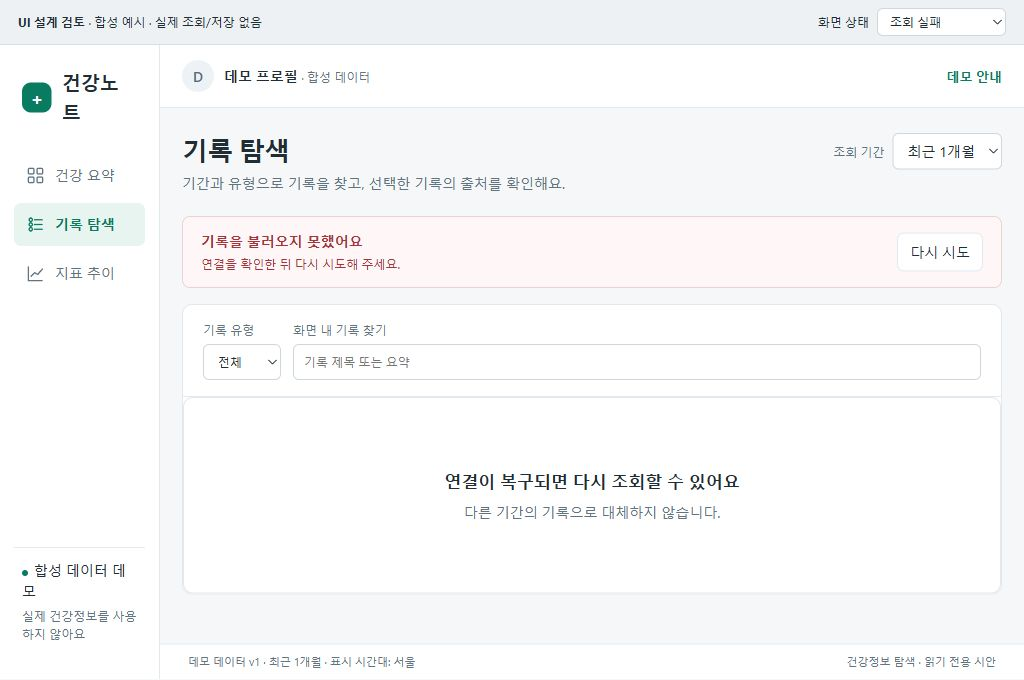
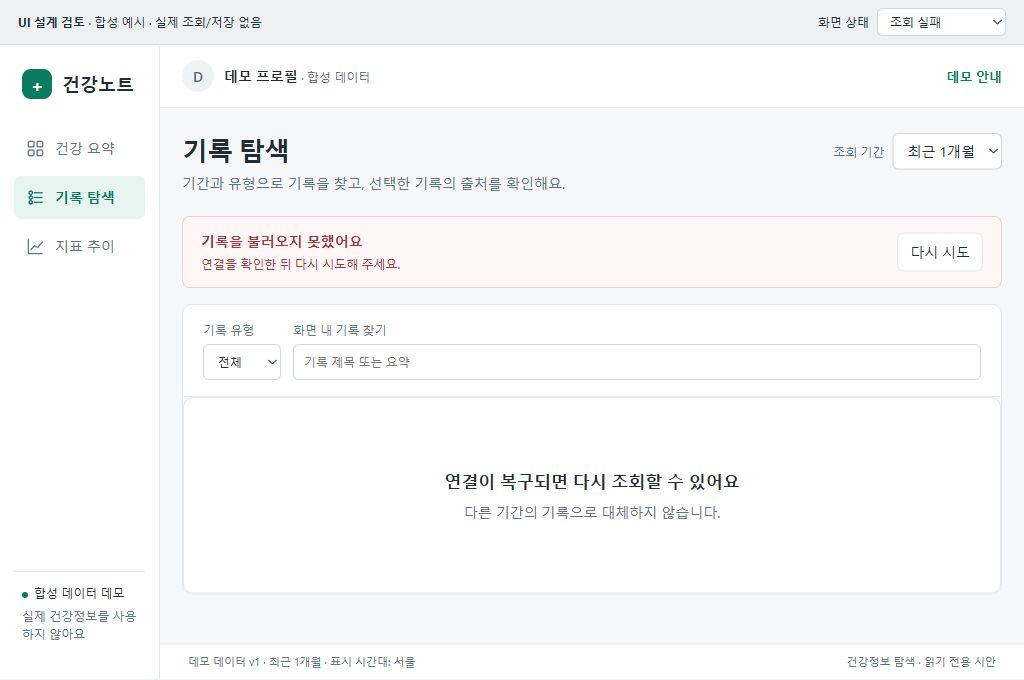
fix(HC-103): refine narrow shell and stress long record titles

diff --git a/design/prototypes/health-explorer.html b/design/prototypes/health-explorer.html
@@ -17,10 +17,10 @@ h1,h2,h3,p{margin:0}h1{font-size:26px;letter-spacing:-.8px;line-height:1.3}h2{fo
 .prototype label{display:flex;align-items:center;gap:8px}.prototype select{font-size:12px;min-height:28px;padding:3px 8px}
 .app{display:grid;grid-template-columns:184px minmax(0,1fr);min-height:calc(100vh - 46px)}
 .sidebar{display:flex;flex-direction:column;background:white;border-right:1px solid var(--line);padding:24px 14px;gap:28px}
-.brand{display:flex;align-items:center;gap:10px;padding:0 8px;font-size:19px;font-weight:700}.mark{width:30px;height:30px;display:grid;place-items:center;background:var(--green);border-radius:9px;color:white;font-size:18px}
+.brand{display:flex;align-items:center;gap:10px;padding:0 8px;font-size:19px;font-weight:700}.mark{flex:none;width:30px;height:30px;display:grid;place-items:center;background:var(--green);border-radius:9px;color:white;font-size:18px}
 nav{display:flex;flex-direction:column;gap:6px}nav button{display:flex;align-items:center;gap:10px;border:0;background:none;text-align:left;padding:11px 12px;width:100%;color:var(--muted);border-radius:7px}
 nav button[aria-current="page"]{color:var(--green);background:var(--green-soft);font-weight:600}nav svg{width:19px;height:19px;flex:none}
-.side-bottom{margin-top:auto;padding:12px 8px;border-top:1px solid var(--line);display:grid;gap:5px}.dot{display:inline-block;width:6px;height:6px;background:var(--green);border-radius:50%;margin-right:6px}
+.side-bottom{font-size:12px;margin-top:auto;padding:12px 8px;border-top:1px solid var(--line);display:grid;gap:5px}.dot{display:inline-block;width:6px;height:6px;background:var(--green);border-radius:50%;margin-right:6px}
 .workspace{min-width:0;display:flex;flex-direction:column}.topbar{background:white;border-bottom:1px solid var(--line);padding:15px 28px;display:flex;align-items:center;justify-content:space-between;gap:16px}
 .profile{display:flex;align-items:center;gap:10px}.avatar{display:grid;place-items:center;width:32px;height:32px;background:#edf2f6;border-radius:50%;color:#566978;font-weight:600}
 main{padding:25px 28px 32px;max-width:1500px;width:100%;margin:0 auto}.heading{display:flex;justify-content:space-between;align-items:center;gap:16px;margin-bottom:22px}
@@ -53,7 +53,7 @@ main{padding:25px 28px 32px;max-width:1500px;width:100%;margin:0 auto}.heading{d
 .data-table button{border:0;background:none;padding:0;color:var(--green)}.data-table tr.selected{background:var(--green-soft)}.trend-layout{display:grid;grid-template-columns:minmax(0,1fr) minmax(240px,.43fr);gap:18px}.insight{padding:20px}.insight p{font-size:13px;color:var(--muted);margin-top:12px}.gap-legend{display:inline-block;border-top:2px dashed var(--muted);width:20px;margin-right:6px;vertical-align:middle}
 .footer{margin-top:auto;padding:9px 28px;background:white;border-top:1px solid var(--line);font-size:11px;color:var(--muted);display:flex;justify-content:space-between;gap:12px}
 dialog{border:1px solid var(--line);border-radius:12px;padding:26px;max-width:440px;width:calc(100% - 40px);box-shadow:0 12px 60px #1c303b25}dialog::backdrop{background:#1c303b55}dialog h2{margin-bottom:12px}dialog p{color:var(--muted);margin-bottom:18px}dialog footer{text-align:right}
-@media(max-width:1120px){.app{grid-template-columns:160px minmax(0,1fr)}.topbar,main{padding-left:22px;padding-right:22px}.columns{grid-template-columns:minmax(0,1.35fr) minmax(245px,1fr)}.timeline-layout{grid-template-columns:minmax(0,1fr)}.detail{margin-top:0}.trend-layout{grid-template-columns:minmax(0,1fr)}.stat{padding:16px}.stat-value{font-size:27px}.heading{align-items:flex-start}}
+@media(max-width:1120px){.brand{font-size:18px;white-space:nowrap}.app{grid-template-columns:160px minmax(0,1fr)}.topbar,main{padding-left:22px;padding-right:22px}.columns{grid-template-columns:minmax(0,1.35fr) minmax(245px,1fr)}.timeline-layout{grid-template-columns:minmax(0,1fr)}.detail{margin-top:0}.trend-layout{grid-template-columns:minmax(0,1fr)}.stat{padding:16px}.stat-value{font-size:27px}.heading{align-items:flex-start}}
 @media(max-width:760px){.app{grid-template-columns:1fr}.sidebar{padding:14px;gap:14px}.sidebar nav{flex-direction:row}.sidebar nav button{justify-content:center}.side-bottom{display:none}.topbar{flex-wrap:wrap}.heading{flex-direction:column}.columns{grid-template-columns:1fr}.stats{grid-template-columns:1fr}.brand{font-size:18px}main{padding:20px 16px}.record{grid-template-columns:62px 30px minmax(0,1fr)}.event-row{grid-template-columns:32px minmax(0,1fr)}.event-row time{grid-column:2}}
 @media(forced-colors:active){button[aria-current="page"],.record[aria-pressed="true"]{outline:2px solid Highlight}.mark,.badge{forced-color-adjust:auto}}
 </style>
@@ -88,7 +88,7 @@ const points=[['2026.09.28','70.8'],['2026.09.14','71.1'],['2026.09.07','—'],[
 let screen='overview',selected='body-3',detailOpen=true,type='전체',period='최근 3개월',selectedPoint=0,lastDetailTrigger=null,search='';
 const shortPeriod = () => period==='최근 1개월'&&scenario.value!=='stale';
 const escapeText = value => String(value).replace(/[&<>"']/g,c=>({'&':'&amp;','<':'&lt;','>':'&gt;','"':'&quot;',"'":'&#39;'}[c]));
-const titleOf = r => scenario.value==='long' && r.id==='body-3' ? '기록 제목이 길어질 때도 측정 출처와 선택 상태를 함께 확인할 수 있는 체성분 측정 기록' : r.title;
+const titleOf = r => scenario.value==='long' && r.id==='body-3' ? '체성분 측정 기록: 측정 날짜와 기기 구분, 측정 당시의 활동 메모, 표시 단위 등 상세 설명이 함께 포함되어 목록과 상세에서 전체 내용을 확인할 수 있는 긴 제목 예시' : r.title;
 const heading = (title,subtitle) => '<div class="heading"><div><h1>'+title+'</h1><p>'+subtitle+'</p></div><label class="period"><span class="muted small">조회 기간</span><select id="period" aria-label="조회 기간"><option>최근 3개월</option><option>최근 1개월</option></select></label></div>';
 const notice = () => scenario.value==='error' ? '<div class="notice" role="alert"><div><strong>기록을 불러오지 못했어요</strong><p>연결을 확인한 뒤 다시 시도해 주세요.</p></div><button data-action="retry">다시 시도</button></div>' : scenario.value==='stale' ? '<div class="notice" role="status"><div><strong>이전 조회 조건의 자료를 표시하고 있어요</strong><p>현재 선택한 기간의 결과가 아닙니다. 새 자료를 불러와 주세요.</p></div><button data-action="retry">새 조건으로 조회</button></div>' : '';
 const blocked = () => scenario.value==='idle' ? '<div class="panel empty"><h2>아직 자료를 조회하지 않았어요</h2><p>조회가 취소됐습니다. 기록이 없는 상태와는 다릅니다.</p><button data-action="retry">다시 조회</button></div>' : scenario.value==='empty' ? '<div class="panel empty"><h2>선택한 기간에 기록이 없어요</h2><p>조회 기간을 바꾸거나 필터를 해제해 주세요.</p><button data-action="reset">기간·필터 초기화</button></div>' : scenario.value==='loading' ? '<div class="panel loading" role="status" aria-live="polite"><h2>건강 기록을 불러오는 중이에요</h2><p>선택한 프로필과 기간의 자료를 확인하고 있어요.</p><button data-action="cancel" style="margin-top:16px">조회 취소</button></div>' : scenario.value==='error' ? '<div class="panel empty"><h2>연결이 복구되면 다시 조회할 수 있어요</h2><p>다른 기간의 기록으로 대체하지 않습니다.</p></div>' : '';

diff --git a/docs/exploration-shell-design.md b/docs/exploration-shell-design.md
@@ -124,7 +124,7 @@ Codex in-app browser, localhost 시안. 브라우저 viewport는 CSS px이며 na
 | 검토 | 실제 결과 |
 | --- | --- |
 | 1280×800 요약/목록·상세/추이 | 캡처·정보 구조 확인; 긴 본문은 세로 scroll |
-| 1024×680 긴 제목 | 상세 아래 재배치, 선택 1개 유지, document 가로 넘침 없음 |
+| 1024×680 긴 제목 | 상세 아래 재배치, 선택 1개 유지, 두 줄 제목(측정 높이 39.5 CSS px), document 가로 넘침 없음 |
 | 기록 상세 Escape | 닫기 후 body-3 원래 행 초점 복귀 |
 | 체성분 상세 → 추이 | 화면 전환과 선택 측정 표시 확인 |
 | 결측 표 행 선택 | 값 없음 표시, 선 gap 유지, 0으로 표시하지 않음 |
@@ -137,6 +137,7 @@ Codex in-app browser, localhost 시안. 브라우저 viewport는 CSS px이며 na
 
 캡처는 [design/evidence/hc103](../design/evidence/hc103)에 보관한다.
 브라우저 탭의 대표 정상/긴 이름/오류/이전 조건 이미지이며 WPF/성능/메모리 evidence는 아니다.
+최소 폭에서 브랜드명이 줄바꿈되는 첫 시안을 발견해 글자/간격을 보완했다. 재검토에서 브랜드 높이 30 CSS px 한 줄과 가로 넘침 없음을 확인했다.
 전체 Windows/DPI/Automation/스크린리더/High Contrast는 **아직 미검증**이다.
 
 ## 공식 구현 근거
